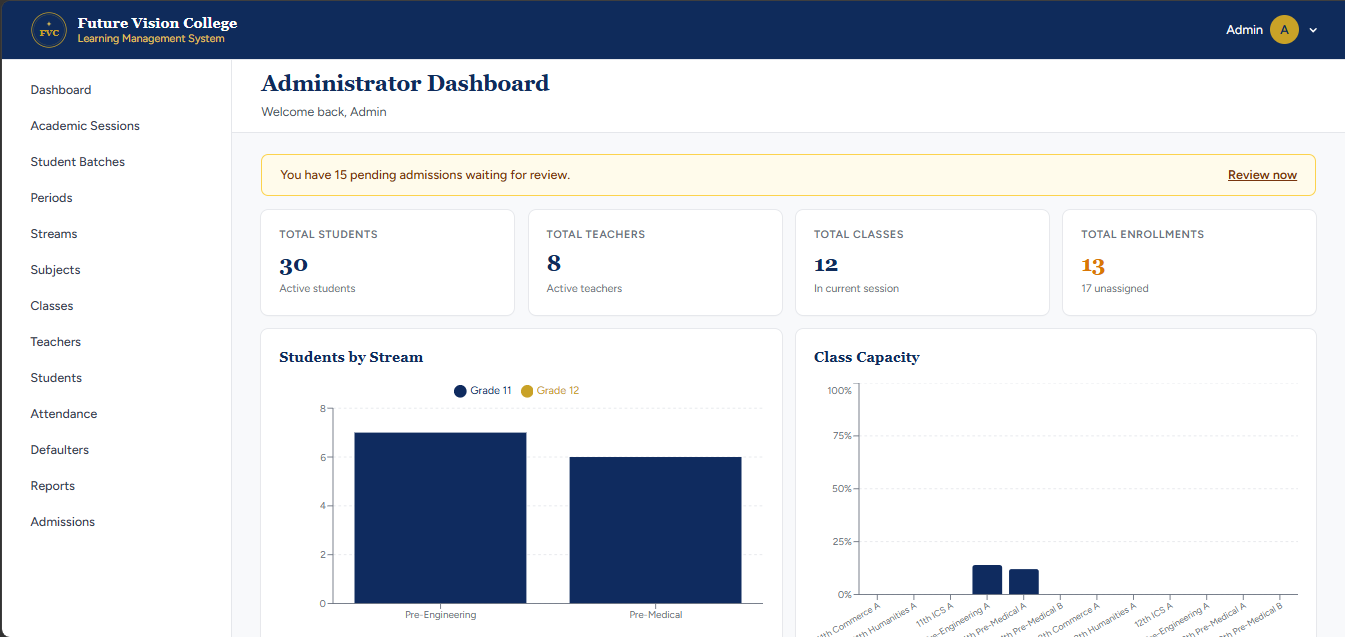
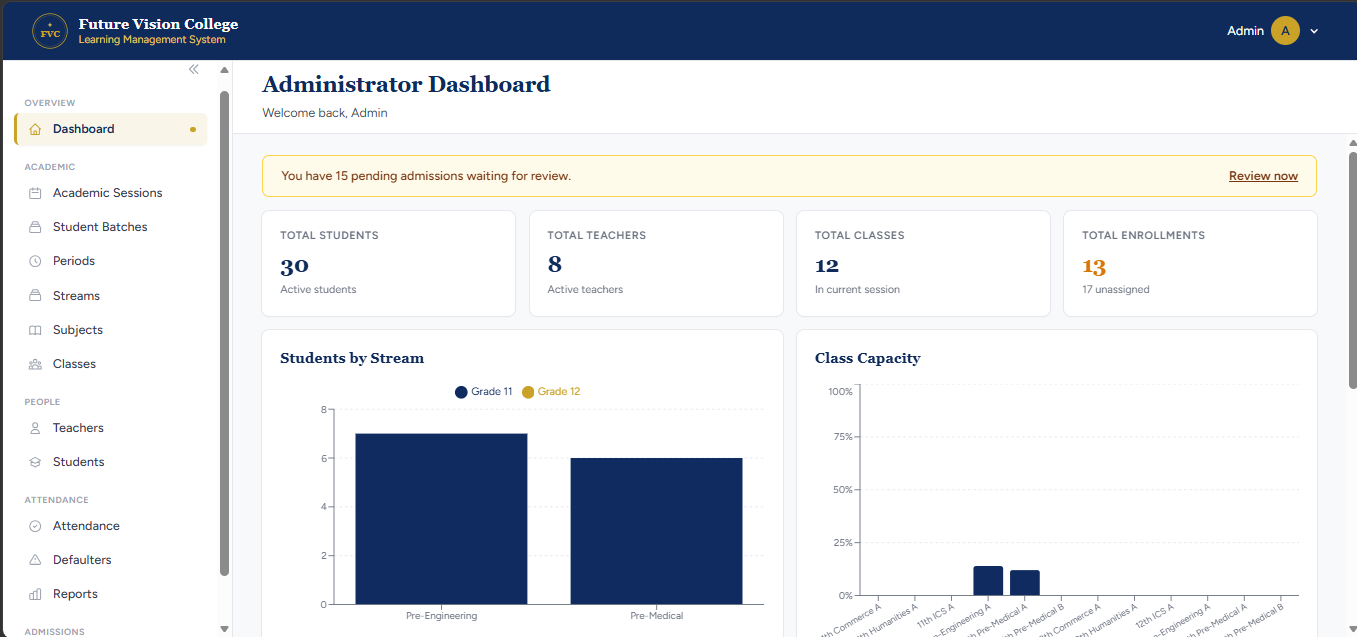
fix: preserve sidebar scroll position across navigations

diff --git a/resources/js/Layouts/AuthenticatedLayout.tsx b/resources/js/Layouts/AuthenticatedLayout.tsx
@@ -1,7 +1,7 @@
 import CollegeLogo from '@/Components/CollegeLogo';
 import { BRANDING } from '@/branding';
 import { Link, usePage } from '@inertiajs/react';
-import { PropsWithChildren, ReactNode, useState } from 'react';
+import { PropsWithChildren, ReactNode, useEffect, useRef, useState } from 'react';
 
 interface User {
     id: number;
@@ -17,12 +17,6 @@ interface NavItem {
     icon: string;
 }
 
-/**
- * A titled group of links, rendered as a heading plus its list.
- *
- * Admin has thirteen links, which read as one undifferentiated wall; the
- * headings are what let someone find Streams without scanning every row.
- */
 interface NavSection {
     section: string;
     items: NavItem[];
@@ -105,7 +99,7 @@ const navItems: Record<User['role'], NavSection[]> = {
                 {
                     label: 'Attendance',
                     routeName: 'admin.attendance.index',
-                    routePattern: 'admin/attendance*',
+                    routePattern: 'admin/attendance',
                     icon: 'check',
                 },
                 {
@@ -205,46 +199,48 @@ const navItems: Record<User['role'], NavSection[]> = {
 /**
  * Whether a route pattern matches the page currently open.
  *
- * Ziggy's own matcher is tried first, then the pattern's trailing wildcard
- * is stripped for a prefix test, which is what makes "admin/reports*" light
- * up for admin/reports/attendance/monthly.
+ * The current path is read from the browser URL via Inertia's page props,
+ * not from Ziggy's route().current(), because the nav patterns are URL
+ * prefixes ("admin/periods*") and Ziggy's matcher works on route names.
+ *
+ * Exact patterns (no trailing "*") match only the exact path. Prefix
+ * patterns (ending in "*") match the prefix alone or the prefix followed
+ * by a slash, so "admin/attendance" does not light up while the user is
+ * on "admin/attendance-defaulters".
  */
-function isActive(pattern: string): boolean {
-    const currentRoute = route().current() ?? '';
+function isActive(pattern: string, currentPath: string): boolean {
+    if (!pattern.endsWith('*')) {
+        return currentPath === pattern;
+    }
 
-    return (
-        Boolean(route().current(pattern)) || currentRoute.startsWith(pattern.replace('*', ''))
-    );
+    const prefix = pattern.slice(0, -1);
+
+    return currentPath === prefix || currentPath.startsWith(prefix + '/');
 }
 
-/**
- * Path data for the navigation icons, keyed by NavItem.icon.
- *
- * Hand-picked rather than pulled from a package: fourteen glyphs is a
- * rounding error against an icon library's install weight, and these share
- * the 24px box and 1.75 stroke of the chevrons already in this file.
- * Hoisted to module scope so the map is not rebuilt on every render.
- */
 const NAV_ICON_PATHS: Record<string, string> = {
     home: 'M3 12l2-2m0 0l7-7 7 7M5 10v10a1 1 0 001 1h3m10-11l2 2m-2-2v10a1 1 0 01-1 1h-3m-6 0a1 1 0 001-1v-4a1 1 0 011-1h2a1 1 0 011 1v4a1 1 0 001 1m-6 0h6',
     calendar:
         'M8 7V3m8 4V3m-9 8h10M5 21h14a2 2 0 002-2V7a2 2 0 00-2-2H5a2 2 0 00-2 2v12a2 2 0 002 2z',
     clock: 'M12 8v4l3 3m6-3a9 9 0 11-18 0 9 9 0 0118 0z',
-    layers: 'M19 11H5m14 0a2 2 0 012 2v6a2 2 0 01-2 2H5a2 2 0 01-2-2v-6a2 2 0 012-2m14 0V9a2 2 0 00-2-2M5 11V9a2 2 0 012-2m0 0V5a2 2 0 012-2h6a2 2 0 012 2v2M7 7h10',
+    layers:
+        'M19 11H5m14 0a2 2 0 012 2v6a2 2 0 01-2 2H5a2 2 0 01-2-2v-6a2 2 0 012-2m14 0V9a2 2 0 00-2-2M5 11V9a2 2 0 012-2m0 0V5a2 2 0 012-2h6a2 2 0 012 2v2M7 7h10',
     book: 'M12 6.253v13m0-13C10.832 5.477 9.246 5 7.5 5S4.168 5.477 3 6.253v13C4.168 18.477 5.754 18 7.5 18s3.332.477 4.5 1.253m0-13C13.168 5.477 14.754 5 16.5 5c1.747 0 3.332.477 4.5 1.253v13C19.832 18.477 18.247 18 16.5 18c-1.746 0-3.332.477-4.5 1.253',
-    users: 'M17 20h5v-2a3 3 0 00-5.356-1.857M17 20H7m10 0v-2c0-.656-.126-1.283-.356-1.857M7 20H2v-2a3 3 0 015.356-1.857M7 20v-2c0-.656.126-1.283.356-1.857m0 0a5.002 5.002 0 019.288 0M15 7a3 3 0 11-6 0 3 3 0 016 0zm6 3a2 2 0 11-4 0 2 2 0 014 0zM7 10a2 2 0 11-4 0 2 2 0 014 0z',
+    users:
+        'M17 20h5v-2a3 3 0 00-5.356-1.857M17 20H7m10 0v-2c0-.656-.126-1.283-.356-1.857M7 20H2v-2a3 3 0 015.356-1.857M7 20v-2c0-.656.126-1.283.356-1.857m0 0a5.002 5.002 0 019.288 0M15 7a3 3 0 11-6 0 3 3 0 016 0zm6 3a2 2 0 11-4 0 2 2 0 014 0zM7 10a2 2 0 11-4 0 2 2 0 014 0z',
     'user-tie': 'M16 7a4 4 0 11-8 0 4 4 0 018 0zM12 14a7 7 0 00-7 7h14a7 7 0 00-7-7z',
     graduation:
         'M12 14l9-5-9-5-9 5 9 5z M12 14l6.16-3.422a12.083 12.083 0 01.665 6.479A11.952 11.952 0 0012 20.055a11.952 11.952 0 00-6.824-2.998 12.078 12.078 0 01.665-6.479L12 14z',
     check: 'M9 12l2 2 4-4m6 2a9 9 0 11-18 0 9 9 0 0118 0z',
-    alert: 'M12 9v2m0 4h.01m-6.938 4h13.856c1.54 0 2.502-1.667 1.732-3L13.732 4c-.77-1.333-2.694-1.333-3.464 0L3.34 16c-.77 1.333.192 3 1.732 3z',
-    chart: 'M9 19v-6a2 2 0 00-2-2H5a2 2 0 00-2 2v6a2 2 0 002 2h2a2 2 0 002-2zm0 0V9a2 2 0 012-2h2a2 2 0 012 2v10m-6 0a2 2 0 002 2h2a2 2 0 002-2m0 0V5a2 2 0 012-2h2a2 2 0 012 2v14a2 2 0 01-2 2h-2a2 2 0 01-2-2z',
+    alert:
+        'M12 9v2m0 4h.01m-6.938 4h13.856c1.54 0 2.502-1.667 1.732-3L13.732 4c-.77-1.333-2.694-1.333-3.464 0L3.34 16c-.77 1.333.192 3 1.732 3z',
+    chart:
+        'M9 19v-6a2 2 0 00-2-2H5a2 2 0 00-2 2v6a2 2 0 002 2h2a2 2 0 002-2zm0 0V9a2 2 0 012-2h2a2 2 0 012 2v10m-6 0a2 2 0 002 2h2a2 2 0 002-2m0 0V5a2 2 0 012-2h2a2 2 0 012 2v14a2 2 0 01-2 2h-2a2 2 0 01-2-2z',
     clipboard:
         'M9 5H7a2 2 0 00-2 2v12a2 2 0 002 2h10a2 2 0 002-2V7a2 2 0 00-2-2h-2M9 5a2 2 0 002 2h2a2 2 0 002-2M9 5a2 2 0 012-2h2a2 2 0 012 2m-3 7h3m-3 4h3m-6-4h.01M9 16h.01',
     user: 'M16 7a4 4 0 11-8 0 4 4 0 018 0zM12 14a7 7 0 00-7 7h14a7 7 0 00-7-7z',
 };
 
-/** A single navigation glyph. Unknown keys fall back to the home icon. */
 function NavIcon({ name, className = 'h-4 w-4' }: { name: string; className?: string }) {
     return (
         <svg
@@ -264,22 +260,15 @@ function NavIcon({ name, className = 'h-4 w-4' }: { name: string; className?: st
     );
 }
 
-/**
- * The grouped link list, shared by the desktop sidebar and the mobile
- * drawer so a link can never look different between the two.
- *
- * `collapsed` narrows it to the desktop icon rail. Labels and section
- * headings are dropped rather than hidden, so the rail carries no invisible
- * text; a hairline between groups keeps them from reading as one long
- * column, and each link keeps its label on the title attribute for hover.
- */
 function SidebarNav({
     sections,
+    currentPath,
     collapsed = false,
     className = '',
     onNavigate,
 }: {
     sections: NavSection[];
+    currentPath: string;
     collapsed?: boolean;
     className?: string;
     onNavigate?: () => void;
@@ -301,7 +290,7 @@ function SidebarNav({
                     )}
                     <div className="space-y-0.5">
                         {group.items.map((item) => {
-                            const active = isActive(item.routePattern);
+                            const active = isActive(item.routePattern, currentPath);
 
                             return (
                                 <Link
@@ -313,14 +302,6 @@ function SidebarNav({
                                     className={
                                         'group flex items-center gap-3 rounded-md border-l-4 px-3 py-2 text-sm transition-all duration-150 ' +
                                         (collapsed ? 'justify-center px-2 ' : '') +
-                                        // The weight sits in the branches, not the
-                                        // shared base list. It resolves the
-                                        // same either way today, but only
-                                        // because Tailwind happens to emit
-                                        // font-medium first; one utility
-                                        // gaining a hover variant would flip
-                                        // it and silently unbold the active
-                                        // link.
                                         (active
                                             ? 'border-gold bg-gold/10 font-semibold text-navy shadow-sm'
                                             : 'border-transparent font-medium text-gray-700 hover:border-gold/40 hover:bg-surface hover:text-navy' +
@@ -355,17 +336,49 @@ export default function AuthenticatedLayout({
     header,
     children,
 }: PropsWithChildren<{ header?: ReactNode }>) {
-    const user = usePage().props.auth.user as User;
+    const page = usePage();
+    const user = page.props.auth.user as User;
+
+    // The current URL path without the query string, used for active-state
+    // matching. Inertia exposes the current URL on the page object.
+    const currentPath = page.url.split('?')[0].replace(/^\//, '');
 
     const [sidebarOpen, setSidebarOpen] = useState(false);
     const [userMenuOpen, setUserMenuOpen] = useState(false);
     const [collapsed, setCollapsed] = useState(false);
 
+    // The desktop sidebar scrolls independently of the page. Because
+    // Inertia re-mounts the layout on every navigation, the sidebar's
+    // scrollTop would otherwise reset to 0 each time the user clicks a
+    // link. Persisting it in sessionStorage keeps the rail where the user
+    // left it, and using sessionStorage rather than localStorage means
+    // the position is forgotten when the tab closes.
+    const sidebarRef = useRef<HTMLElement | null>(null);
+
+    useEffect(() => {
+        const el = sidebarRef.current;
+        if (!el) return;
+
+        const saved = sessionStorage.getItem('sidebar-scroll-top');
+        if (saved !== null) {
+            el.scrollTop = parseInt(saved, 10);
+        }
+
+        const handleScroll = () => {
+            sessionStorage.setItem('sidebar-scroll-top', String(el.scrollTop));
+        };
+
+        el.addEventListener('scroll', handleScroll);
+
+        return () => {
+            el.removeEventListener('scroll', handleScroll);
+        };
+    }, []);
+
     const sections = navItems[user.role] ?? [];
 
     return (
         <div className="flex h-screen flex-col overflow-hidden bg-surface">
-            {/* Top header — held in place by the flex column, not by sticky */}
             <header className="z-30 shrink-0 border-b border-gray-200 bg-navy text-white">
                 <div className="flex h-16 items-center justify-between px-4 sm:px-6 lg:px-8">
                     <div className="flex items-center gap-3">
@@ -464,9 +477,8 @@ export default function AuthenticatedLayout({
             </header>
 
             <div className="flex flex-1 overflow-hidden">
-                {/* Sidebar — desktop. The flex row pins it beside the content,
-                    so it needs no offset and scrolls only if it overflows. */}
                 <aside
+                    ref={sidebarRef}
                     className={
                         'hidden shrink-0 overflow-y-auto border-r border-gray-200 bg-white transition-[width] duration-200 ease-in-out lg:block ' +
                         (collapsed ? 'w-16' : 'w-64')
@@ -500,10 +512,9 @@ export default function AuthenticatedLayout({
                             </svg>
                         </button>
                     </div>
-                    <SidebarNav sections={sections} collapsed={collapsed} />
+                    <SidebarNav sections={sections} currentPath={currentPath} collapsed={collapsed} />
                 </aside>
 
-                {/* Sidebar — mobile drawer */}
                 {sidebarOpen && (
                     <>
                         <div
@@ -537,15 +548,15 @@ export default function AuthenticatedLayout({
                                 </button>
                             </div>
                             <SidebarNav
-                                    sections={sections}
-                                    className="flex-1 overflow-y-auto"
-                                    onNavigate={() => setSidebarOpen(false)}
-                                />
+                                sections={sections}
+                                currentPath={currentPath}
+                                className="flex-1 overflow-y-auto"
+                                onNavigate={() => setSidebarOpen(false)}
+                            />
                         </aside>
                     </>
                 )}
 
-                {/* Main content */}
                 <main className="flex min-w-0 flex-1 flex-col overflow-hidden">
                     {header && (
                         <div className="shrink-0 border-b border-gray-200 bg-white">
@@ -555,23 +566,6 @@ export default function AuthenticatedLayout({
                         </div>
                     )}
 
-                    {/* The only scrolling region on the page: the header, page
-                        header and sidebar all sit outside it.
-
-                        The inner wrapper is h-full, not min-h-full, and that
-                        distinction is what makes the table grid work. A
-                        min-height leaves the height property "auto", and a
-                        percentage height against an auto-height parent
-                        resolves to auto as well. An Index page's body is
-                        h-full min-h-0, so with min-h-full the whole chain
-                        collapsed to auto: the table card grew to the full
-                        height of its table and this wrapper scrolled the page
-                        instead. A definite height bounds the table card, which
-                        leaves its inner overflow-auto the only scroll region.
-
-                        Content taller than the viewport - the Create, Edit and
-                        Show pages - still scrolls here, because an overflowing
-                        child extends this element's scrollable overflow. */}
                     <div className="flex-1 overflow-y-auto overflow-x-hidden">
                         <div className="flex h-full flex-col px-4 py-6 sm:px-6 lg:px-8">
                             {children}
